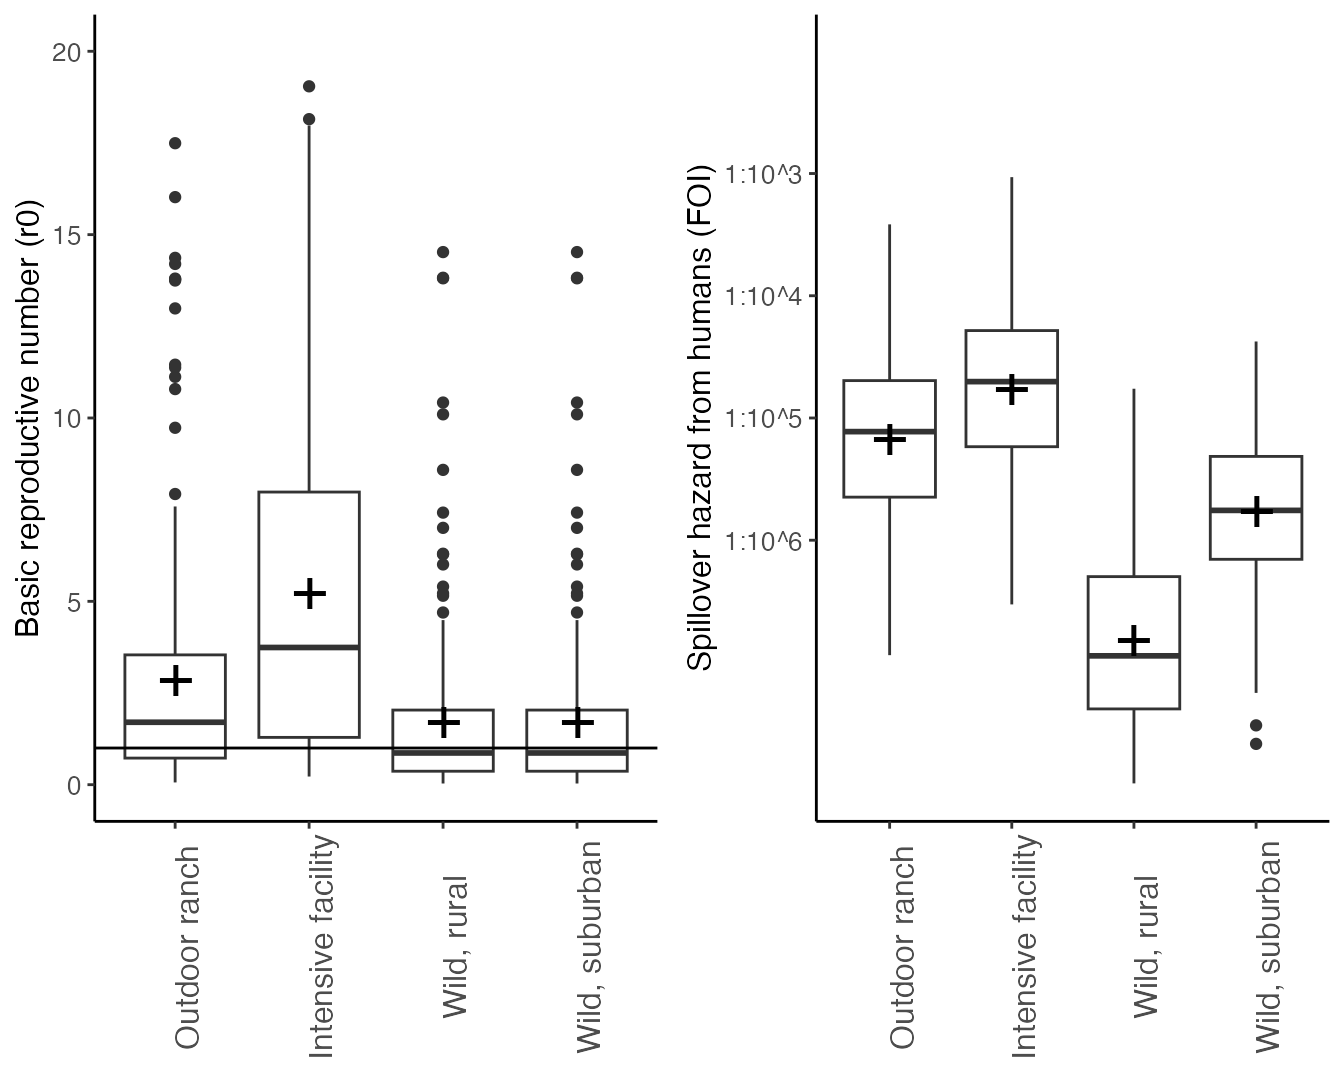
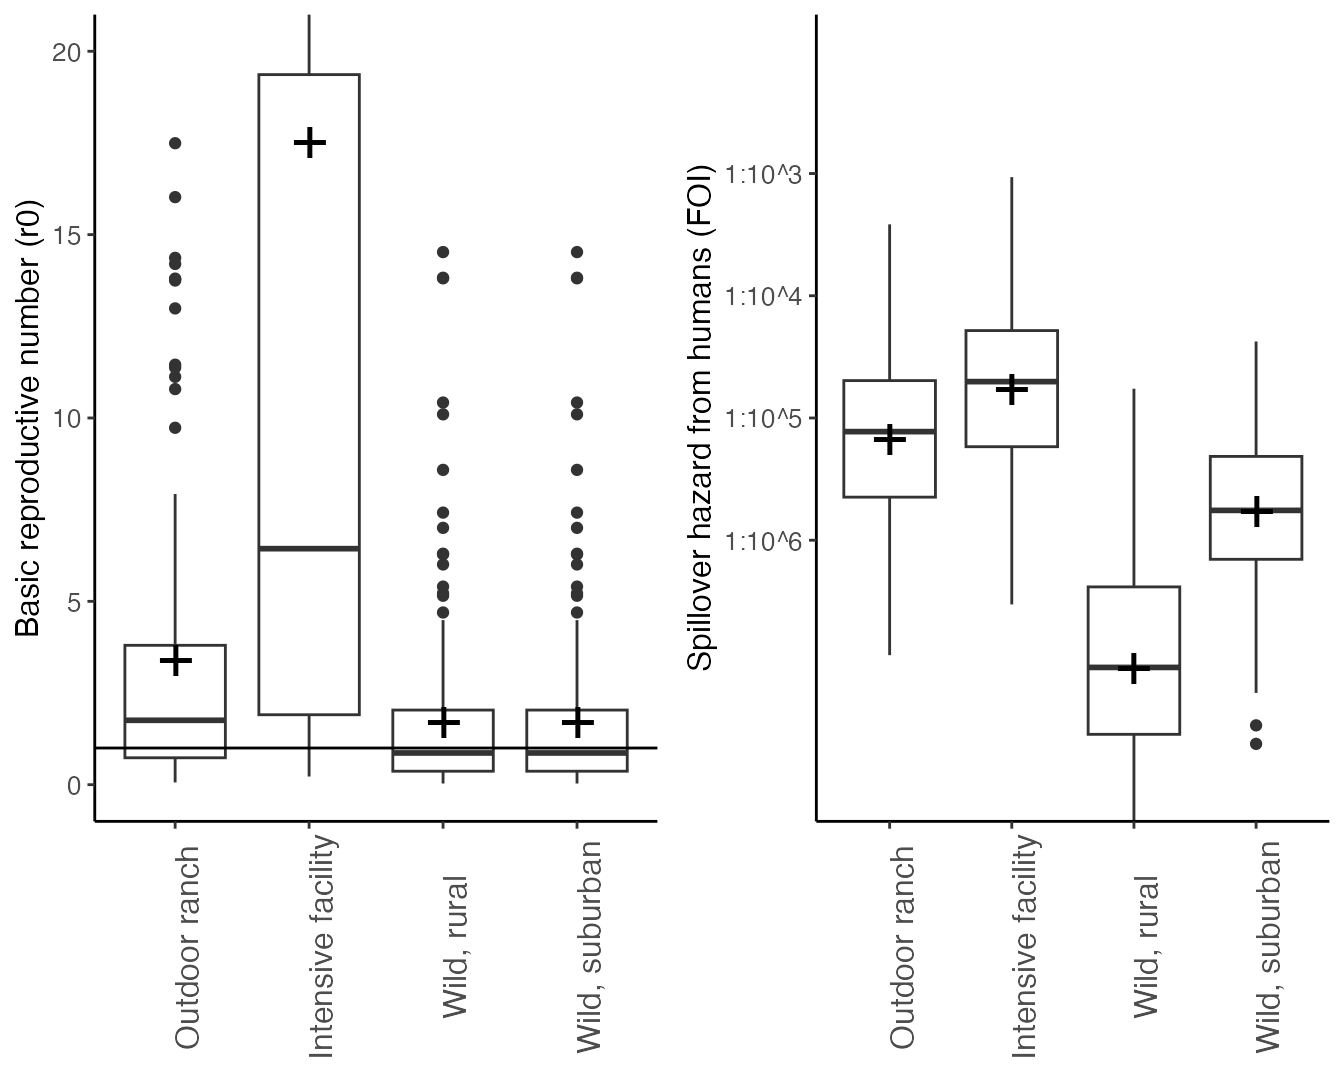
Updates to r0 and foi plots

diff --git a/docs/articles/Visualize_by_context.html b/docs/articles/Visualize_by_context.html
@@ -41,7 +41,10 @@
 <li class="active nav-item dropdown">
   <a href="#" class="nav-link dropdown-toggle" data-bs-toggle="dropdown" role="button" aria-expanded="false" aria-haspopup="true" id="dropdown-articles">Articles</a>
   <div class="dropdown-menu" aria-labelledby="dropdown-articles">
+    <a class="dropdown-item" href="../articles/Connected_Systems.html">SARS-CoV-2 introduction and spread in connected systems</a>
+    <a class="dropdown-item" href="../articles/Connected_Systems_initialspill.html">SARS-CoV-2 introduction and spread in connected systems</a>
     <a class="dropdown-item" href="../articles/SIRS_analysis_by_contexts.html">SARS-CoV-2 outbreak characteristics across wild and captive settings</a>
+    <a class="dropdown-item" href="../articles/SIRS_analysis_by_contexts_initialspill.html">SARS-CoV-2 outbreak characteristics across wild and captive settings</a>
     <a class="dropdown-item" href="../articles/Visualize_by_context.html">Summarize introduction, spread, prevalence, and persistence</a>
     <a class="dropdown-item" href="../articles/default_projection.html">default_projection</a>
     <a class="dropdown-item" href="../articles/example_values.html">example_values</a>
@@ -135,7 +138,8 @@ the dataset and remind R how many iterations were run in each context
 <span>  <span class="fu"><a href="https://ggplot2.tidyverse.org/reference/stat_summary.html" class="external-link">stat_summary</a></span><span class="op">(</span>fun<span class="op">=</span><span class="va">mean</span>, geom<span class="op">=</span><span class="st">"point"</span>, shape<span class="op">=</span><span class="st">"+"</span>, size<span class="op">=</span><span class="fl">8</span><span class="op">)</span> <span class="op">+</span></span>
 <span>  <span class="fu"><a href="https://ggplot2.tidyverse.org/reference/ggtheme.html" class="external-link">theme_classic</a></span><span class="op">(</span><span class="op">)</span><span class="op">+</span></span>
 <span>  <span class="fu"><a href="https://ggplot2.tidyverse.org/reference/geom_abline.html" class="external-link">geom_hline</a></span><span class="op">(</span>yintercept <span class="op">=</span> <span class="fl">1</span><span class="op">)</span><span class="op">+</span></span>
-<span>  <span class="fu"><a href="https://ggplot2.tidyverse.org/reference/scale_continuous.html" class="external-link">scale_y_continuous</a></span><span class="op">(</span><span class="st">"Basic reproductive number (r0)"</span>, limits <span class="op">=</span> <span class="fu"><a href="https://rdrr.io/r/base/c.html" class="external-link">c</a></span><span class="op">(</span><span class="fl">0</span>,<span class="fl">20</span><span class="op">)</span><span class="op">)</span><span class="op">+</span></span>
+<span>   <span class="fu"><a href="https://ggplot2.tidyverse.org/reference/coord_cartesian.html" class="external-link">coord_cartesian</a></span><span class="op">(</span>ylim <span class="op">=</span> <span class="fu"><a href="https://rdrr.io/r/base/c.html" class="external-link">c</a></span><span class="op">(</span><span class="fl">0</span>,<span class="fl">20</span><span class="op">)</span><span class="op">)</span><span class="op">+</span></span>
+<span>  <span class="fu"><a href="https://ggplot2.tidyverse.org/reference/scale_continuous.html" class="external-link">scale_y_continuous</a></span><span class="op">(</span><span class="st">"Basic reproductive number (r0)"</span><span class="op">)</span><span class="op">+</span></span>
 <span>  <span class="fu"><a href="https://ggplot2.tidyverse.org/reference/theme.html" class="external-link">theme</a></span><span class="op">(</span>axis.text <span class="op">=</span> <span class="fu"><a href="https://ggplot2.tidyverse.org/reference/element.html" class="external-link">element_text</a></span><span class="op">(</span>size <span class="op">=</span> <span class="fl">10</span><span class="op">)</span>, axis.title <span class="op">=</span> <span class="fu"><a href="https://ggplot2.tidyverse.org/reference/element.html" class="external-link">element_text</a></span><span class="op">(</span>size <span class="op">=</span> <span class="fl">12</span><span class="op">)</span>,legend.text <span class="op">=</span> <span class="fu"><a href="https://ggplot2.tidyverse.org/reference/element.html" class="external-link">element_text</a></span><span class="op">(</span>size <span class="op">=</span> <span class="fl">12</span><span class="op">)</span>, legend.title <span class="op">=</span> <span class="fu"><a href="https://ggplot2.tidyverse.org/reference/element.html" class="external-link">element_text</a></span><span class="op">(</span>size <span class="op">=</span> <span class="fl">14</span><span class="op">)</span>, strip.text.x <span class="op">=</span> <span class="fu"><a href="https://ggplot2.tidyverse.org/reference/element.html" class="external-link">element_text</a></span><span class="op">(</span>size <span class="op">=</span> <span class="fl">14</span><span class="op">)</span>, axis.title.x <span class="op">=</span> <span class="fu"><a href="https://ggplot2.tidyverse.org/reference/element.html" class="external-link">element_blank</a></span><span class="op">(</span><span class="op">)</span>, axis.text.x <span class="op">=</span> <span class="fu"><a href="https://ggplot2.tidyverse.org/reference/element.html" class="external-link">element_text</a></span><span class="op">(</span>angle <span class="op">=</span> <span class="fl">90</span>, size <span class="op">=</span> <span class="fl">12</span><span class="op">)</span><span class="op">)</span> <span class="op">-&gt;</span> <span class="va">r0</span></span>
 <span></span>
 <span><span class="co">#plot FOI</span></span>
@@ -143,7 +147,8 @@ the dataset and remind R how many iterations were run in each context
 <span>  <span class="fu"><a href="https://ggplot2.tidyverse.org/reference/geom_boxplot.html" class="external-link">geom_boxplot</a></span><span class="op">(</span><span class="op">)</span><span class="op">+</span></span>
 <span>  <span class="fu"><a href="https://ggplot2.tidyverse.org/reference/stat_summary.html" class="external-link">stat_summary</a></span><span class="op">(</span>fun.y<span class="op">=</span><span class="va">mean</span>, geom<span class="op">=</span><span class="st">"point"</span>, shape<span class="op">=</span><span class="st">"+"</span>, size<span class="op">=</span><span class="fl">8</span><span class="op">)</span> <span class="op">+</span></span>
 <span>  <span class="fu"><a href="https://ggplot2.tidyverse.org/reference/ggtheme.html" class="external-link">theme_classic</a></span><span class="op">(</span><span class="op">)</span><span class="op">+</span></span>
-<span>  <span class="fu"><a href="https://ggplot2.tidyverse.org/reference/scale_continuous.html" class="external-link">scale_y_continuous</a></span><span class="op">(</span><span class="st">"Spillover hazard from humans (FOI)"</span>, limits <span class="op">=</span> <span class="fu"><a href="https://rdrr.io/r/base/c.html" class="external-link">c</a></span><span class="op">(</span><span class="op">-</span><span class="fl">8</span>,<span class="op">-</span><span class="fl">2</span><span class="op">)</span>, breaks <span class="op">=</span> <span class="fu"><a href="https://rdrr.io/r/base/c.html" class="external-link">c</a></span><span class="op">(</span><span class="op">-</span><span class="fl">6</span>,<span class="op">-</span><span class="fl">5</span>,<span class="op">-</span><span class="fl">4</span>,<span class="op">-</span><span class="fl">3</span><span class="op">)</span>, labels <span class="op">=</span> <span class="fu"><a href="https://rdrr.io/r/base/c.html" class="external-link">c</a></span><span class="op">(</span><span class="st">"1:10^6"</span>,<span class="st">"1:10^5"</span>, <span class="st">"1:10^4"</span>, <span class="st">"1:10^3"</span><span class="op">)</span><span class="op">)</span><span class="op">+</span></span>
+<span>    <span class="fu"><a href="https://ggplot2.tidyverse.org/reference/coord_cartesian.html" class="external-link">coord_cartesian</a></span><span class="op">(</span>ylim <span class="op">=</span> <span class="fu"><a href="https://rdrr.io/r/base/c.html" class="external-link">c</a></span><span class="op">(</span><span class="op">-</span><span class="fl">8</span>,<span class="op">-</span><span class="fl">2</span><span class="op">)</span><span class="op">)</span><span class="op">+</span></span>
+<span>  <span class="fu"><a href="https://ggplot2.tidyverse.org/reference/scale_continuous.html" class="external-link">scale_y_continuous</a></span><span class="op">(</span><span class="st">"Spillover hazard from humans (FOI)"</span>, breaks <span class="op">=</span> <span class="fu"><a href="https://rdrr.io/r/base/c.html" class="external-link">c</a></span><span class="op">(</span><span class="op">-</span><span class="fl">6</span>,<span class="op">-</span><span class="fl">5</span>,<span class="op">-</span><span class="fl">4</span>,<span class="op">-</span><span class="fl">3</span><span class="op">)</span>, labels <span class="op">=</span> <span class="fu"><a href="https://rdrr.io/r/base/c.html" class="external-link">c</a></span><span class="op">(</span><span class="st">"1:10^6"</span>,<span class="st">"1:10^5"</span>, <span class="st">"1:10^4"</span>, <span class="st">"1:10^3"</span><span class="op">)</span><span class="op">)</span><span class="op">+</span></span>
 <span>  <span class="fu"><a href="https://ggplot2.tidyverse.org/reference/theme.html" class="external-link">theme</a></span><span class="op">(</span>axis.text <span class="op">=</span> <span class="fu"><a href="https://ggplot2.tidyverse.org/reference/element.html" class="external-link">element_text</a></span><span class="op">(</span>size <span class="op">=</span> <span class="fl">10</span><span class="op">)</span>, axis.title <span class="op">=</span> <span class="fu"><a href="https://ggplot2.tidyverse.org/reference/element.html" class="external-link">element_text</a></span><span class="op">(</span>size <span class="op">=</span> <span class="fl">12</span><span class="op">)</span>,legend.text <span class="op">=</span> <span class="fu"><a href="https://ggplot2.tidyverse.org/reference/element.html" class="external-link">element_text</a></span><span class="op">(</span>size <span class="op">=</span> <span class="fl">12</span><span class="op">)</span>, legend.title <span class="op">=</span> <span class="fu"><a href="https://ggplot2.tidyverse.org/reference/element.html" class="external-link">element_text</a></span><span class="op">(</span>size <span class="op">=</span> <span class="fl">14</span><span class="op">)</span>, strip.text.x <span class="op">=</span> <span class="fu"><a href="https://ggplot2.tidyverse.org/reference/element.html" class="external-link">element_text</a></span><span class="op">(</span>size <span class="op">=</span> <span class="fl">14</span><span class="op">)</span>, axis.title.x <span class="op">=</span> <span class="fu"><a href="https://ggplot2.tidyverse.org/reference/element.html" class="external-link">element_blank</a></span><span class="op">(</span><span class="op">)</span>, axis.text.x <span class="op">=</span> <span class="fu"><a href="https://ggplot2.tidyverse.org/reference/element.html" class="external-link">element_text</a></span><span class="op">(</span>angle <span class="op">=</span> <span class="fl">90</span>, size <span class="op">=</span> <span class="fl">12</span><span class="op">)</span><span class="op">)</span> <span class="op">-&gt;</span> <span class="va">FOI</span></span>
 <span></span>
 <span><span class="fu">ggpubr</span><span class="fu">::</span><span class="fu"><a href="https://rpkgs.datanovia.com/ggpubr/reference/ggarrange.html" class="external-link">ggarrange</a></span><span class="op">(</span><span class="va">r0</span>, <span class="va">FOI</span>,nrow <span class="op">=</span><span class="fl">1</span>, ncol<span class="op">=</span><span class="fl">2</span><span class="op">)</span></span></code></pre></div>
